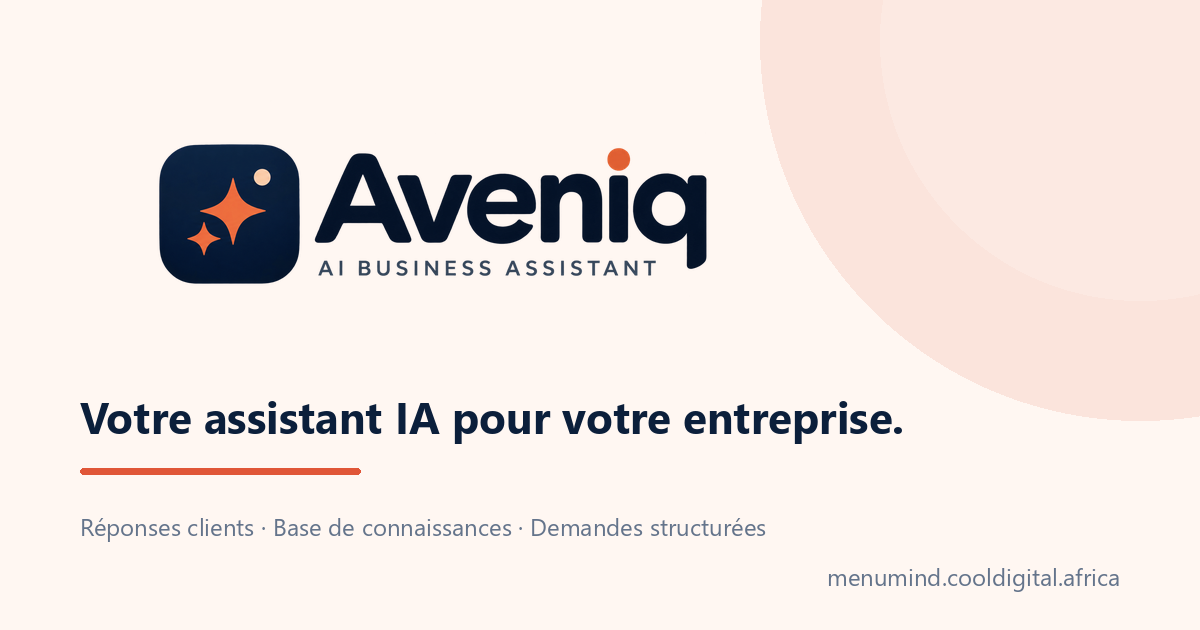
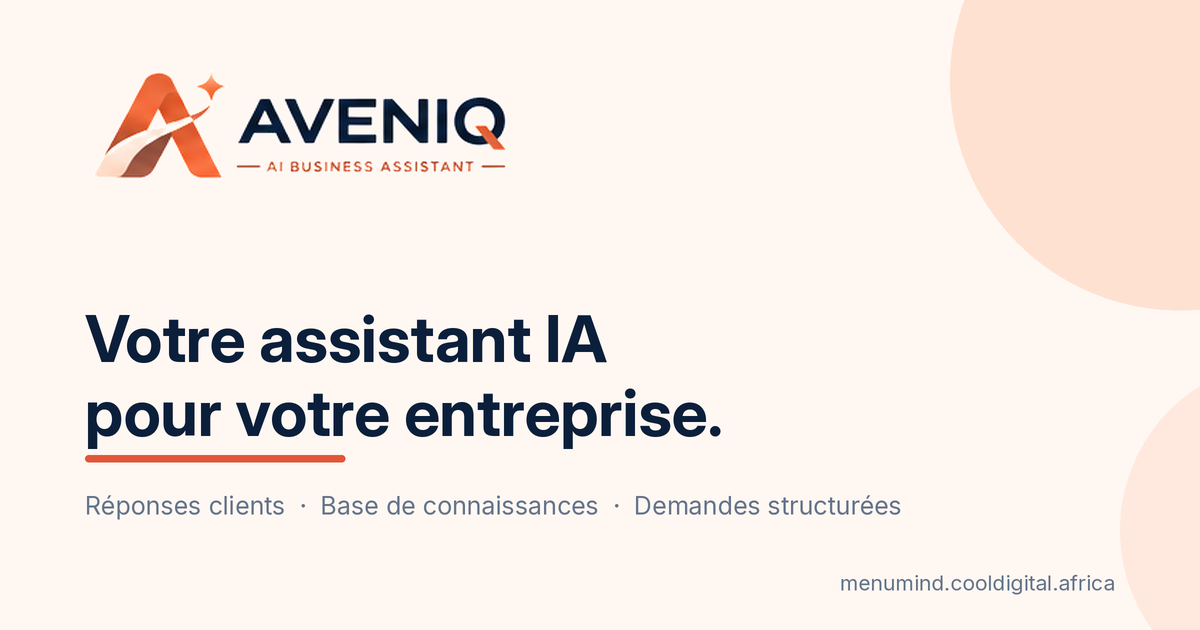
feat(brand): update AVENIQ brand kit
- Replace active AVENIQ logos and app icon

- Update favicon and social preview assets

- Install official 2026 brand kit and optimized derivatives

- Preserve legacy assets for rollback

- Keep application logic and client branding unchanged

diff --git a/frontend/public/index.html b/frontend/public/index.html
@@ -8,9 +8,9 @@
     <meta name="description" content="Votre assistant IA pour votre entreprise : répondez à vos clients, centralisez vos informations et automatisez vos échanges. Configurez votre assistant simplement." />
     <link rel="canonical" href="https://menumind.cooldigital.africa/" />
 
-    <link rel="icon" type="image/svg+xml" href="%PUBLIC_URL%/favicon.svg" />
-    <link rel="icon" type="image/png" sizes="32x32" href="%PUBLIC_URL%/brand/icons/aveniq-icon-32.png" />
-    <link rel="apple-touch-icon" sizes="192x192" href="%PUBLIC_URL%/brand/icons/aveniq-icon-192.png" />
+    <link rel="icon" type="image/png" sizes="32x32" href="%PUBLIC_URL%/brand/kit-2026/optimized/app-icon-32.png" />
+    <link rel="icon" type="image/png" sizes="16x16" href="%PUBLIC_URL%/brand/kit-2026/optimized/app-icon-16.png" />
+    <link rel="apple-touch-icon" sizes="192x192" href="%PUBLIC_URL%/brand/kit-2026/optimized/apple-touch-icon-192.png" />
 
     <meta property="og:type" content="website" />
     <meta property="og:site_name" content="AVENIQ" />
@@ -18,7 +18,7 @@
     <meta property="og:title" content="AVENIQ — AI Business Assistant" />
     <meta property="og:description" content="Votre assistant IA pour votre entreprise : répondez à vos clients, centralisez vos informations et automatisez vos échanges. Configurez votre assistant simplement." />
     <meta property="og:url" content="https://menumind.cooldigital.africa/" />
-    <meta property="og:image" content="https://menumind.cooldigital.africa/og-aveniq-01.png" />
+    <meta property="og:image" content="https://menumind.cooldigital.africa/og-aveniq-02.png" />
     <meta property="og:image:width" content="1200" />
     <meta property="og:image:height" content="630" />
     <meta property="og:image:alt" content="AVENIQ — Votre assistant IA pour votre entreprise" />
@@ -26,7 +26,7 @@
     <meta name="twitter:card" content="summary_large_image" />
     <meta name="twitter:title" content="AVENIQ — AI Business Assistant" />
     <meta name="twitter:description" content="Votre assistant IA pour votre entreprise : répondez à vos clients, centralisez vos informations et automatisez vos échanges. Configurez votre assistant simplement." />
-    <meta name="twitter:image" content="https://menumind.cooldigital.africa/og-aveniq-01.png" />
+    <meta name="twitter:image" content="https://menumind.cooldigital.africa/og-aveniq-02.png" />
 
     <link rel="preconnect" href="https://fonts.googleapis.com" />
     <link rel="preconnect" href="https://fonts.gstatic.com" crossorigin />

diff --git a/frontend/src/components/AveniqBrand.jsx b/frontend/src/components/AveniqBrand.jsx
@@ -1,25 +1,30 @@
 import React from "react";
 
 /**
- * AVENIQ horizontal brand mark (foundation component).
+ * AVENIQ horizontal brand mark.
  *
  * - `light` : transparent PNG/WebP with the dark wordmark, for light surfaces
  *   (landing header/footer, dashboard sidebar, admin header, auth mobile).
- * - `dark`  : wordmark on the brand navy background, for dark panels
+ * - `dark`  : white wordmark inside the official navy card, for dark panels
  *   (auth left panel, dark CTA blocks).
  *
- * Intrinsic size is 720x240; callers set the rendered height with `className`
- * (e.g. "h-8", "h-9"). The original brand-kit files stay untouched in
- * `public/brand/logos/`.
+ * Assets come from the official 2026 kit. They are raster preview crops, not
+ * vector files; the web derivatives in `public/brand/kit-2026/optimized/` only
+ * remove the preview background. See `public/brand/kit-2026/README-INSTALL.md`.
+ * Callers set the rendered height with `className` (e.g. "h-8", "h-9").
  */
 const LOGOS = {
   light: {
-    webp: "/brand/optimized/logo-light-720.webp",
-    png: "/brand/optimized/logo-light-720.png",
+    webp: "/brand/kit-2026/optimized/logo-horizontal-light.webp",
+    png: "/brand/kit-2026/optimized/logo-horizontal-light.png",
+    width: 303,
+    height: 88,
   },
   dark: {
-    webp: "/brand/optimized/logo-dark-720.webp",
-    png: "/brand/optimized/logo-dark-720.png",
+    webp: "/brand/kit-2026/optimized/logo-horizontal-dark.webp",
+    png: "/brand/kit-2026/optimized/logo-horizontal-dark.png",
+    width: 330,
+    height: 118,
   },
 };
 
@@ -33,8 +38,8 @@ export default function AveniqBrand({
   return (
     <picture>
       <source srcSet={logo.webp} type="image/webp" />
-      <img src={logo.png} alt={alt} width={720} height={240} decoding="async"
-        className={`w-auto ${className}`} data-testid={testId} />
+      <img src={logo.png} alt={alt} width={logo.width} height={logo.height} decoding="async"
+        className={`w-auto shrink-0 ${className}`} data-testid={testId} />
     </picture>
   );
 }

diff --git a/frontend/public/brand/kit-2026/docs/design-tokens.css b/frontend/public/brand/kit-2026/docs/design-tokens.css
@@ -1,0 +1,14 @@
+:root {
+  --aveniq-bleu-nuit: #0B1F3B; /* Principal, fonds */
+  --aveniq-terracotta: #E05638; /* Accent, CTA */
+  --aveniq-pêche: #FFB894; /* Surbrillance, états */
+  --aveniq-ivoire: #FFF7F2; /* Fonds neutres */
+  --aveniq-ardoise: #64748B; /* Textes secondaires */
+  --aveniq-bordure: #E5E7EB; /* Contours, séparateurs */
+  --aveniq-primary-ink: #9C3B22; /* Accent sombre */
+  --aveniq-success: #16A34A; /* Succès */
+  --aveniq-warning: #F59E0B; /* Avertissement */
+  --aveniq-info: #3B82F6; /* Information */
+  --aveniq-destructive: #DC2626; /* Actions destructives */
+  --aveniq-font-family: Inter, sans-serif;
+}

diff --git a/frontend/src/pages/admin/SuperAdmin.js b/frontend/src/pages/admin/SuperAdmin.js
@@ -396,7 +396,7 @@ export default function SuperAdmin() {
     <div className="min-h-screen bg-background">
       <header className="h-16 border-b border-border bg-card flex items-center justify-between px-4 sm:px-8">
         <div className="flex items-center gap-2 font-heading font-bold text-lg">
-          <AveniqBrand variant="light" className="h-8" testId="brand-logo-icon" alt="" />
+          <AveniqBrand variant="light" className="h-7 sm:h-8" testId="brand-logo-icon" alt="" />
           <span className="text-muted-foreground font-normal text-sm">· Super Admin</span>
         </div>
         <div className="flex items-center gap-3">

diff --git a/frontend/src/components/BrandLogo.js b/frontend/src/components/BrandLogo.js
@@ -13,7 +13,7 @@ export default function BrandLogo({ size = "lg", className = "" }) {
   const s = SIZES[size] || SIZES.lg;
   return (
     <span className={`block shrink-0 overflow-hidden ${s} ${className}`} data-testid="brand-logo-icon">
-      <img src="/brand/icons/aveniq-icon-96.png" alt="" width={96} height={96}
+      <img src="/brand/kit-2026/optimized/app-icon-96.png" alt="" width={96} height={96}
         className="h-full w-full object-cover" />
     </span>
   );

diff --git a/frontend/public/brand/kit-2026/README-INSTALL.md b/frontend/public/brand/kit-2026/README-INSTALL.md
@@ -1,0 +1,56 @@
+# AVENIQ — Brand Kit 2026 (installation frontend)
+
+Référence officielle installée le **27 novembre 2026** depuis le Brand Kit fourni
+(`AVENIQ_BrandKit(1).zip`). Ce dossier est la copie de travail du kit ; les
+fichiers d'origine sont conservés tels quels.
+
+## Contenu du kit
+
+- `logos/` : logo horizontal, logo empilé, version sur fond sombre.
+- `icons/` : aperçus App / Web App / favicon / iconographie.
+- `palette/` : swatches PNG, `colors.json`, `palette.svg`.
+- `docs/` : tokens CSS, typographie, composants de référence.
+- `reference/` : planche de marque originale.
+- `optimized/` : dérivés web réellement utilisés par l'application.
+
+## Nature des assets
+
+Les logos et icônes du kit sont des **recadrages raster d'aperçu** issus de la
+planche de marque. Ce ne sont **pas** des fichiers vectoriels et ils n'ont pas
+de fond transparent à la source. Aucun logo n'a été redessiné ou reconstruit en
+SVG. Les dérivés ci-dessous retirent uniquement le fond d'aperçu et redimensionnent
+l'image.
+
+## Dérivés utilisés
+
+| Fichier | Source | Transformation | Dimensions | Usage |
+|---|---|---|---|---|
+| `optimized/logo-horizontal-light.png` / `.webp` | `logos/logo-horizontal.png` | fond clair retiré (y compris les contre-formes), recadrage + 6 px | 303×88 | `AveniqBrand` variante `light` (landing, auth, sidebar, admin, footer) |
+| `optimized/logo-horizontal-dark.png` / `.webp` | `logos/logo-dark-background.png` | fond extérieur retiré, carte navy officielle conservée, recadrage + 4 px | 330×118 | `AveniqBrand` variante `dark` (panneaux sombres) |
+| `optimized/app-icon-16.png` | `icons/app-icon-512-preview.png` | tuile recadrée, coins blancs retirés, redimensionnement prémultiplié | 16×16 | favicon 16 px |
+| `optimized/app-icon-32.png` | idem | idem | 32×32 | favicon 32 px |
+| `optimized/app-icon-96.png` | idem | idem | 96×96 | `BrandLogo` (contexte carré) |
+| `optimized/apple-touch-icon-192.png` | idem | idem, aplati sur blanc (iOS applique son masque) | 192×192 | `apple-touch-icon` |
+| `public/og-aveniq-02.png` | logo light + composition | composition 1200×630, Inter, palette officielle | 1200×630 | Open Graph / Twitter |
+| `public/og-default.png` | idem | copie de l'OG 2026 | 1200×630 | fallback des cartes de partage backend |
+
+L'ancien contenu de `og-default.png` est identique à `public/og-aveniq-01.png`,
+qui est conservé. Pour un rollback, il suffit de recopier ce fichier.
+
+## Limites connues
+
+- Les dimensions natives sont faibles (logo horizontal 315×105, icône App 155×152).
+  Les dérivés ne sont pas des exports haute résolution.
+- L'icône Apple 192 px est agrandie depuis l'aperçu 149×149 ; elle est acceptable
+  pour un écran d'accueil mais ne remplace pas un export natif.
+- Le logo OG est agrandi (303 → 430 px de large dans la composition 1200×630).
+- La variante `dark` inclut volontairement la carte navy arrondie de la planche :
+  sur un panneau de la même couleur, un léger écart de teinte reste visible.
+- L'interface conserve Inter ; JetBrains Mono reste utilisée pour les usages techniques et numériques.
+
+## Anciens assets conservés
+
+Les dossiers `brand/logos/`, `brand/icons/`, `brand/optimized/`, `brand/web-assets/`,
+`brand/brand-board/`, `brand/documentation/`, ainsi que `public/favicon.svg` et
+`public/og-aveniq-01.png`, restent en place pour comparaison et rollback. Ils ne
+sont plus référencés par les surfaces AVENIQ actives.

diff --git a/frontend/public/brand/kit-2026/README.md b/frontend/public/brand/kit-2026/README.md
@@ -1,0 +1,21 @@
+# AVENIQ Brand Kit
+
+Kit extrait et organisé à partir du Brand Board fourni.
+
+## Contenu
+- `logos/` : aperçus recadrés des variations de logo visibles sur la planche.
+- `icons/` : aperçus d’icône App, Web App, favicon et iconographie.
+- `palette/` : couleurs en JSON, SVG, PNG de swatches et aperçu de palette.
+- `docs/design-tokens.css` : tokens CSS de couleur et typographie.
+- `docs/typography.md` : notes typographiques.
+- `docs/ui-components.md` : composants de référence observés.
+- `reference/brand-board-original.png` : planche source.
+
+## Palette
+Bleu nuit `#0B1F3B`, Terracotta `#E05638`, Pêche `#FFB894`, Ivoire `#FFF7F2`, Ardoise `#64748B`, Bordure `#E5E7EB`.
+
+## Typographie
+Inter — Regular, Medium, Semibold, Bold.
+
+## Limites
+Les logos et icônes inclus sont des recadrages d’aperçu issus de la planche raster, pas des fichiers vectoriels ou transparents reconstruits. Les dimensions des recadrages ne garantissent pas les dimensions natives d’export. Utilisez les fichiers source du logo pour une production print ou une utilisation à haute résolution.

diff --git a/frontend/public/brand/kit-2026/docs/ui-components.md b/frontend/public/brand/kit-2026/docs/ui-components.md
@@ -1,0 +1,15 @@
+# UI de référence AVENIQ
+
+## Boutons
+- Primary : fond Terracotta `#E05638`, texte blanc, arrondi, flèche
+- Secondary : fond blanc/transparent, contour gris clair, texte Bleu nuit
+
+## Badges
+- Nouveau : orange clair, icône sparkle
+- Inclus : bleu clair, icône check
+- Premium : gris neutre, icône crown
+
+## Iconographie
+Outline, trait uniforme, Terracotta, conteneurs clairs arrondis. Exemples de catégories : Assistance, Rapidité, Organisation, Croissance.
+
+La planche n’illustre pas les autres composants (inputs, tables, menus, modales, etc.).

diff --git a/frontend/public/brand/kit-2026/docs/typography.md b/frontend/public/brand/kit-2026/docs/typography.md
@@ -1,0 +1,9 @@
+# Typographie AVENIQ
+
+- Famille : **Inter**
+- Regular : textes courants
+- Medium : labels et éléments intermédiaires
+- Semibold : titres et navigation
+- Bold : titres importants et emphase
+
+La planche ne définit pas les tailles, interlignes ou échelle typographique détaillée.
